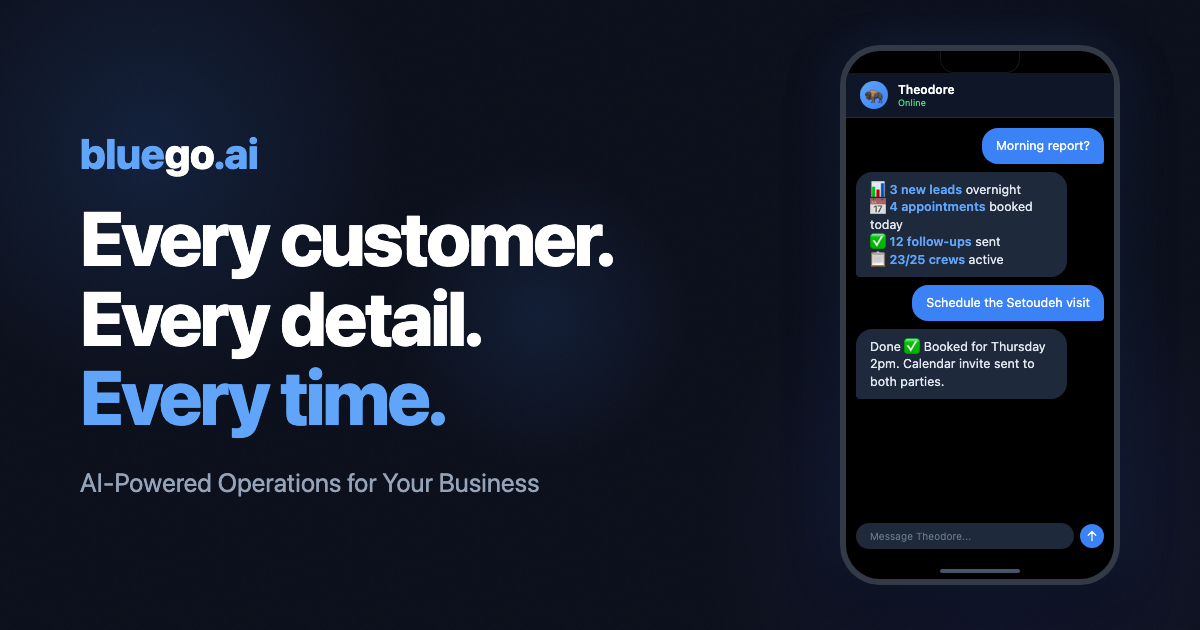
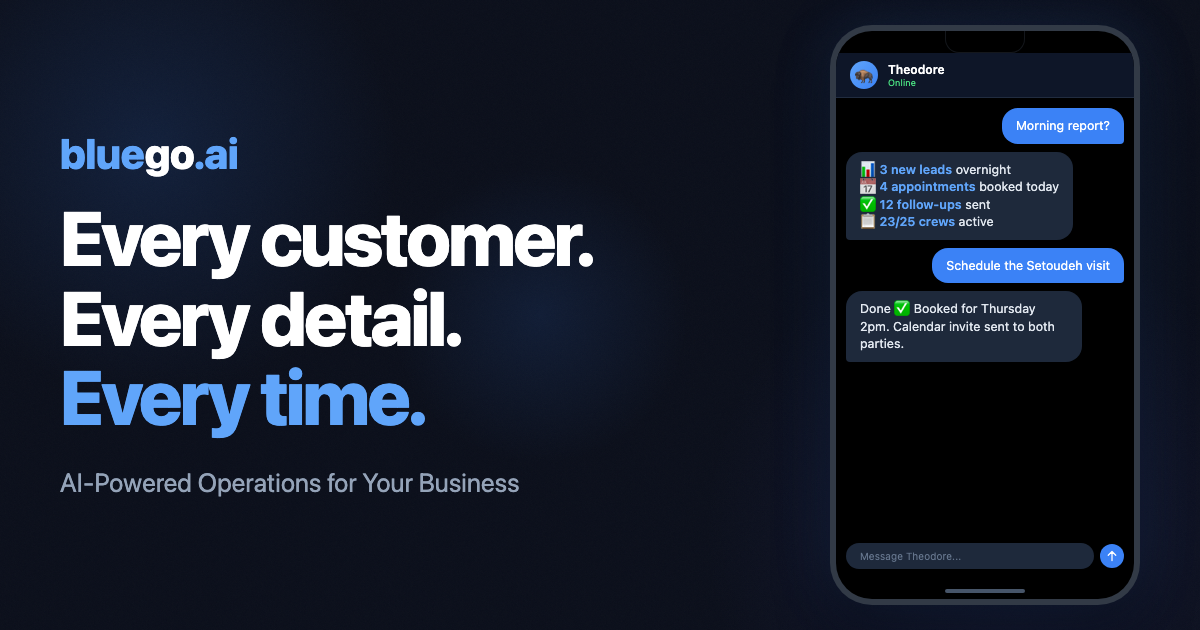
OG: bigger phone, tighter padding to fill space

diff --git a/og-generator.html b/og-generator.html
@@ -49,7 +49,7 @@
     display: flex;
     width: 100%;
     height: 100%;
-    padding: 40px 80px;
+    padding: 30px 60px;
     align-items: center;
     justify-content: space-between;
   }
@@ -98,9 +98,9 @@
   }
 
   .phone {
-    width: 280px;
-    height: 540px;
-    border-radius: 40px;
+    width: 310px;
+    height: 580px;
+    border-radius: 42px;
     border: 6px solid rgba(100,116,139,0.5);
     background: #000;
     overflow: hidden;
